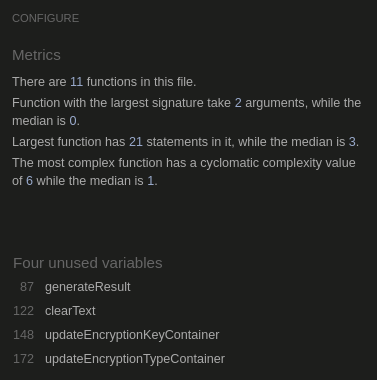
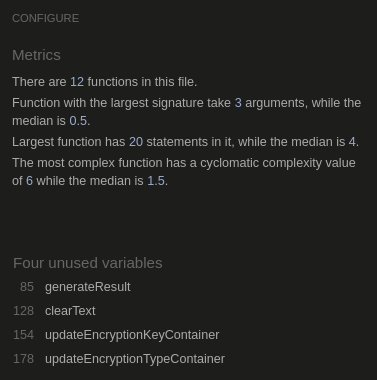
Added a function in JavaScript to validate the user's input before processing any data. The function is called checkUserInput().

diff --git a/assets/js/script.js b/assets/js/script.js
@@ -12,9 +12,8 @@ document.addEventListener("DOMContentLoaded", function () {
  * It receives an input parameter called 'encryption' which should be set to either 'encrypt' or 'decrypt'.
  * Based on the chosen option, the method will perform encryption or decryption on the text using the Caesar Cipher technique.
  */
-function caesarEncryption(encryption, textInput) {
+function caesarEncryption(encryption, textInput, shift) {
   let outputResult = "";
-  let shift = parseInt(document.getElementById("key").value);
   for (let index = 0; index < textInput.length; index++) {
     let char = textInput[index];
     let charUppercase = char === char.toUpperCase();
@@ -45,9 +44,8 @@ function caesarEncryption(encryption, textInput) {
  * encryption (indicating the operation to perform, either "encrypt" or "decrypt")
  * and textInput (the text to be encrypted or decrypted).
  */
-function vigenereEncryption(encryption, textInput) {
+function vigenereEncryption(encryption, textInput, key) {
   let outputResult = "";
-  let key = document.getElementById("key").value.toUpperCase();
   let keyIndex = 0;
 
   for (let i = 0; i < textInput.length; i++) {
@@ -94,12 +92,20 @@ function generateResult() {
   let textInput = document.getElementById("text-input").value;
   let outputResult;
   if (encryptionType === "caesar") {
-    outputResult = caesarEncryption(encryption, textInput);
+    let key = parseInt(document.getElementById("key").value);
+    if (!checkUserInput(key, textInput)) {
+      return;
+    }
+    outputResult = caesarEncryption(encryption, textInput, key);
     // Hide the info-three
     opacityChange("hide", document.getElementById("info-three"));
     showResult(outputResult);
   } else {
-    outputResult = vigenereEncryption(encryption, textInput);
+    let key = document.getElementById("key").value.toUpperCase();
+    if (!checkUserInput(key, textInput)) {
+      return;
+    }
+    outputResult = vigenereEncryption(encryption, textInput, key);
     // Hide the info-three
     opacityChange("hide", document.getElementById("info-three"));
     showResult(outputResult);
@@ -172,4 +178,17 @@ function updateEncryptionKeyContainer(encryption) {
 function updateEncryptionTypeContainer() {
   opacityChange("show", document.getElementById("encryptionTypeContainer"));
   opacityChange("hide", document.getElementById("info-one"));
+}
+/**
+ * Checks if there is valid input text and a key.
+ */
+function checkUserInput(key, textInput) {
+  if (key === "") {
+    alert("Please provide a shift/key.");
+    return false;
+  } else if (textInput === "") {
+    alert("Please provide an input text.");
+    return false;
+  }
+  return true;
 }
